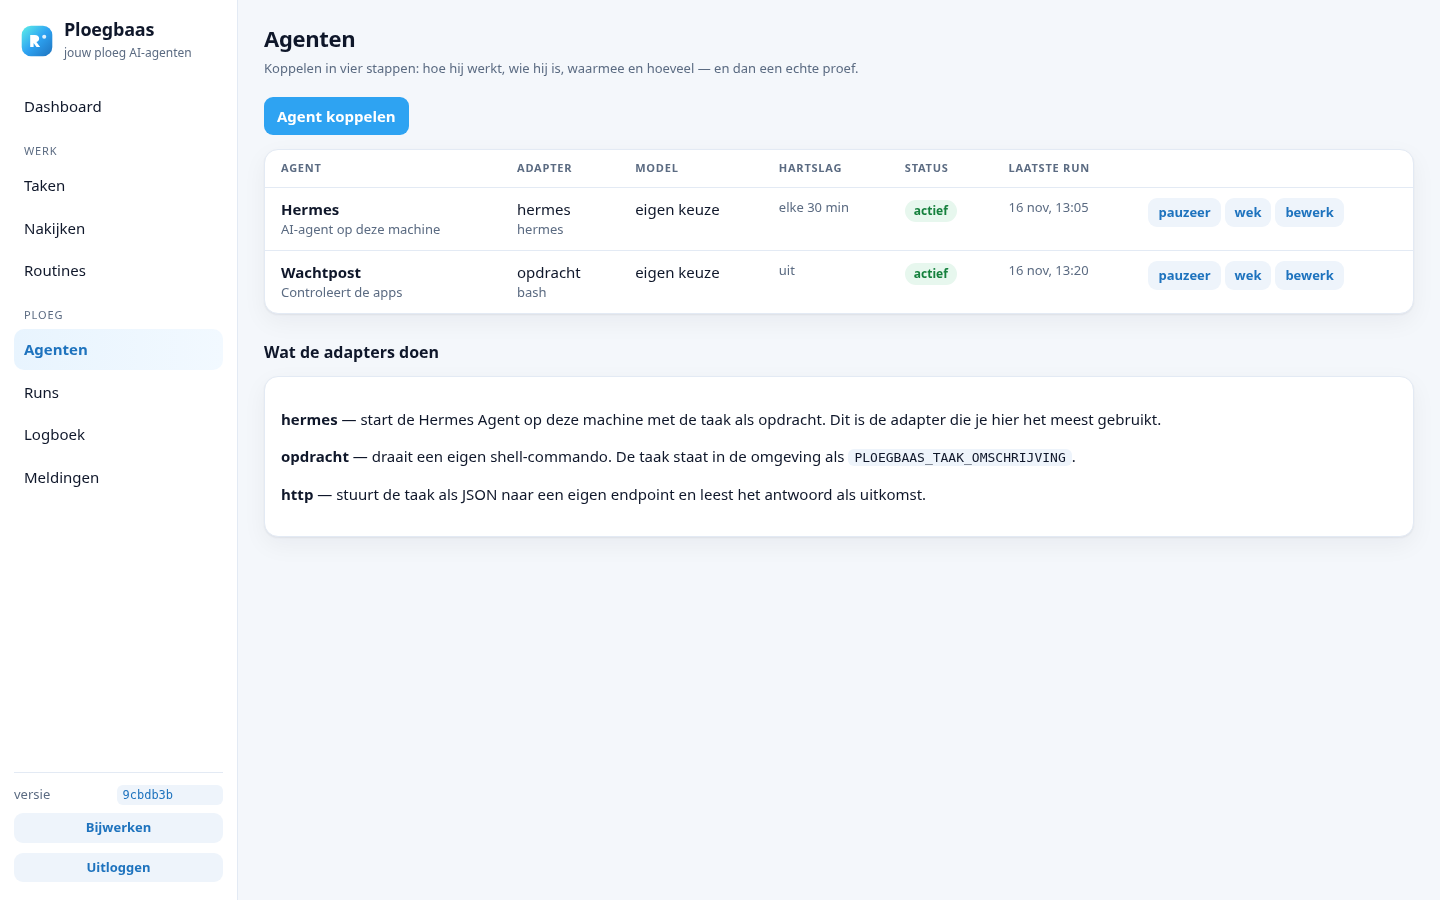
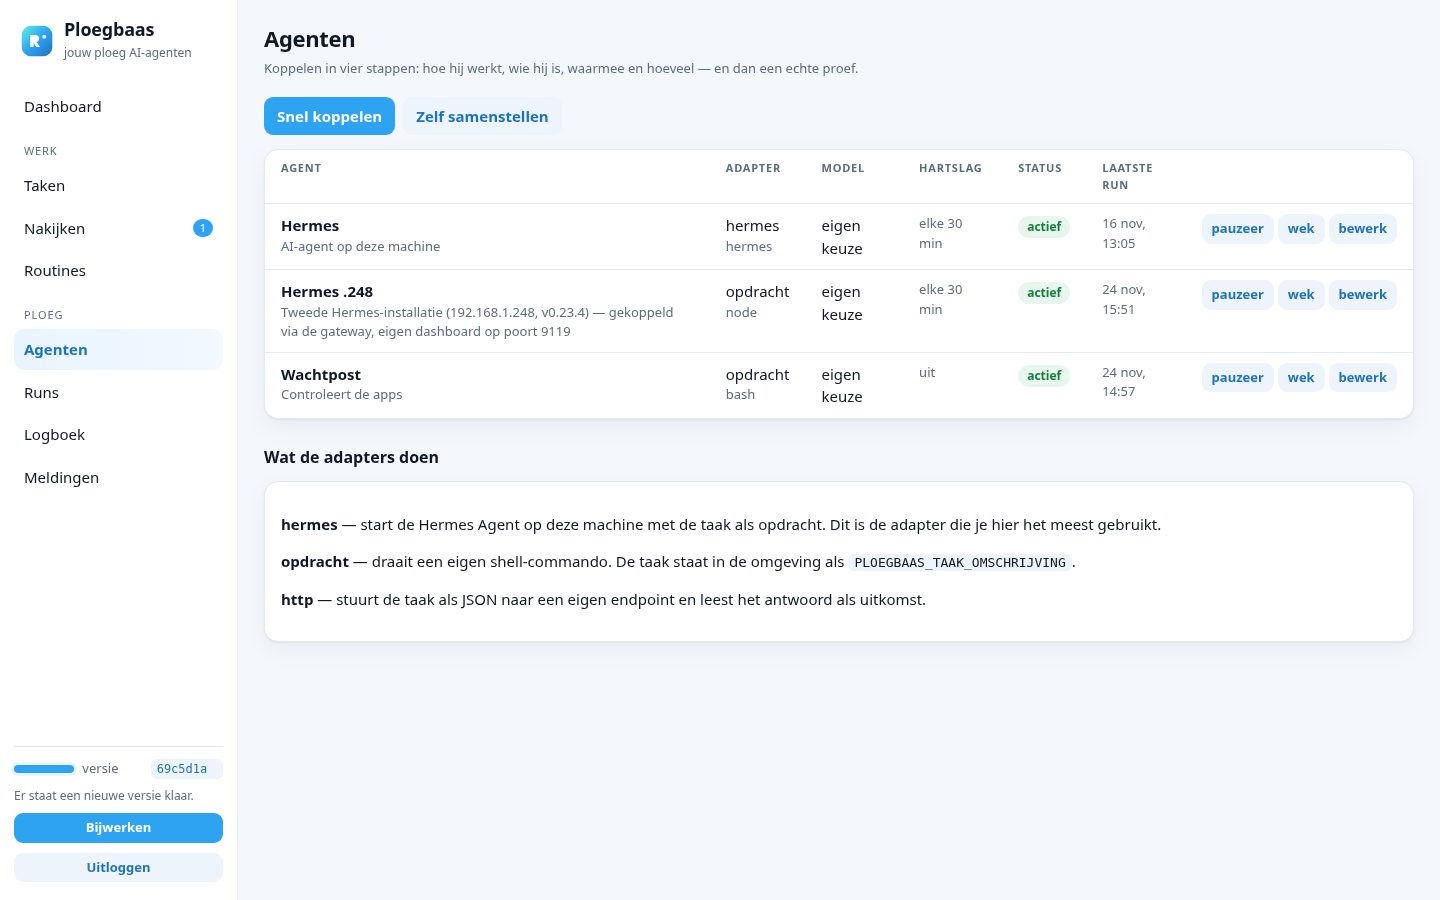
Schermafbeeldingen opnieuw na de standaardagent-kaart

diff --git a/docs/README.md b/docs/README.md
@@ -57,6 +57,8 @@ paperclipai/paperclip) — er is **geen regel code uit dat project overgenomen**
 | **Nakijken** — werk waar een agent "klaar" van zegt. | **Inloggen** — één wachtwoord, ondertekende sessiecookie. |
 | ![Bijwerken](docs/screenshots/bijwerken.png) | |
 | **Bijwerken** — de versie die draait, de log van de laatste bijwerking, en één knop om bij te werken of terug te zetten. | |
+| ![Een agent koppelen](docs/screenshots/agenten-koppelen.png) | |
+| **Een agent koppelen** — vier stappen, met een echte proef voordat je hem aanneemt. | |
 
 </details>
 
@@ -77,6 +79,36 @@ paperclipai/paperclip) — er is **geen regel code uit dat project overgenomen**
 Daarnaast: **routines** (terugkerend werk dat zelf taken aanmaakt), **budgetten**
 (een agent wordt automatisch gepauzeerd als zijn maandbudget op is), en een **live
 kanaal** zodat de pagina zichzelf bijwerkt terwijl een agent bezig is.
+
+## Een agent koppelen
+
+Op de pagina **Agenten** staat één knop: *Agent koppelen*. Daarna gaat het in vier
+stappen, zonder dat je hoeft te weten wat een "adapter" is:
+
+1. **Hoe werkt deze agent?** Drie kaarten — *Hermes Agent op deze machine*, *Een eigen
+   commando*, *Een eigen endpoint*. Ploegbaas zoekt zelf uit wat er is en zet dat onder de
+   kaart: welke Hermes-versie er gevonden is, en of je eigen model antwoordt (op
+   `127.0.0.1:11434` of een alias uit `~/.hermes/config.yaml`).
+2. **Wie is het?** Naam, rol en titel.
+3. **Waarmee en hoeveel?** Model (met de aliassen van deze machine als keuzelijst, je mag
+   ook zelf een naam typen), maandbudget, hartslag en tijdslimiet.
+4. **Testen, dan koppelen.** De knop **Testen** laat de agent één echte opdracht uitvoeren —
+   *"Antwoord met precies één woord: ok"* — en toont het oordeel met de duur en de uitvoer:
+
+   > **Deze agent antwoordt** · 8,5 s · code 0
+   > ```
+   > ok
+   > ```
+
+   Klopt het niet, dan zie je de fout en de uitvoer van de agent. Pas daarna klik je op
+   **Koppelen**; zonder geslaagde proef vraagt Ploegbaas eerst of je het zeker weet.
+
+De proef draait echt: bij de `hermes`-adapter start hij dezelfde CLI met dezelfde
+argumenten als een gewone run, bij `opdracht` je eigen commando, en bij `http` een
+`POST {proef:true}` naar je endpoint. Er komt geen taak of run in je lijst van te staan.
+
+API: `GET /api/agenten/ontdek` (wat deze machine kan) en `POST /api/agenten/proef`
+(`{adapter, model, adapter_config}` → `{ok, duur_ms, code, uitvoer}`).
 
 ## Bijwerken vanaf het dashboard
 
@@ -250,6 +282,7 @@ Eerlijke functielijst. **ja** = werkt hier · **deels** = aanwezig met een beper
 | Taken met status, prioriteit, labels en ouder-taak | ja | *nieuw · bezig · nakijken · klaar · geblokkeerd* |
 | Overleg per taak (thread) met de agent | ja | Een bericht van jou zet de taak terug op *nieuw* |
 | Agenten met rol, titel en adapter | ja | `hermes`, `opdracht`, `http` |
+| Een agent koppelen met een invulformulier en een proef | ja | Vier stappen, adapterkeuze als kaarten; de test laat de agent echt één opdracht uitvoeren en toont duur, code en uitvoer |
 | Hartslag: agent pakt zelf toegewezen werk | ja | Elke 15 seconden; één run per agent tegelijk |
 | Runs met volledige log en live bijwerken | ja | Logbestand per run plus een live kanaal (SSE) in de pagina |
 | Meldingen meteen doorgeven aan een webhook | ja | JSON per gebeurtenis, optioneel ondertekend (HMAC-SHA256); de pagina Meldingen toont wat er verstuurd is |
